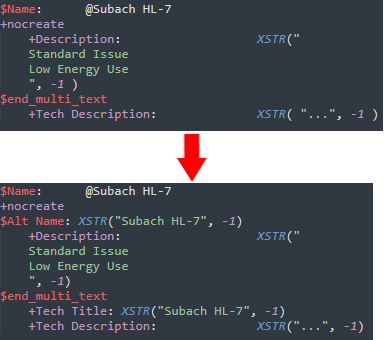
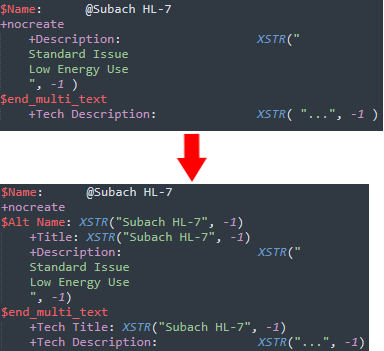
New feature: weapon title now handled

diff --git a/FreeSpace2TranslationTools/Services/XstrManager.cs b/FreeSpace2TranslationTools/Services/XstrManager.cs
@@ -215,6 +215,13 @@ namespace FreeSpace2TranslationTools.Services
 
                         newContent = newContent.Replace(weapon.Value, newEntry);
                     }
+
+                    if (!weapon.Value.Contains("+Title:") && weapon.Value.Contains("+Description:"))
+                    {
+                        string newEntry = Regex.Replace(weapon.Value, @"(\$Name:\s*(.*?)\r\n.*?\r\n)(\s*\+Description:)", new MatchEvaluator(GenerateTitle), RegexOptions.Singleline);
+
+                        newContent = newContent.Replace(weapon.Value, newEntry);
+                    }
                 }
 
                 if (sourceContent != newContent)
@@ -359,6 +366,10 @@ namespace FreeSpace2TranslationTools.Services
         private string GenerateTechTitle(Match match)
         {
             return AddXstrLineToHardcodedValue("\t+Tech Title", match);
+        }
+        private string GenerateTitle(Match match)
+        {
+            return AddXstrLineToHardcodedValue("\t+Title", match);
         }
 
         private string GenerateLabels(Match match)
